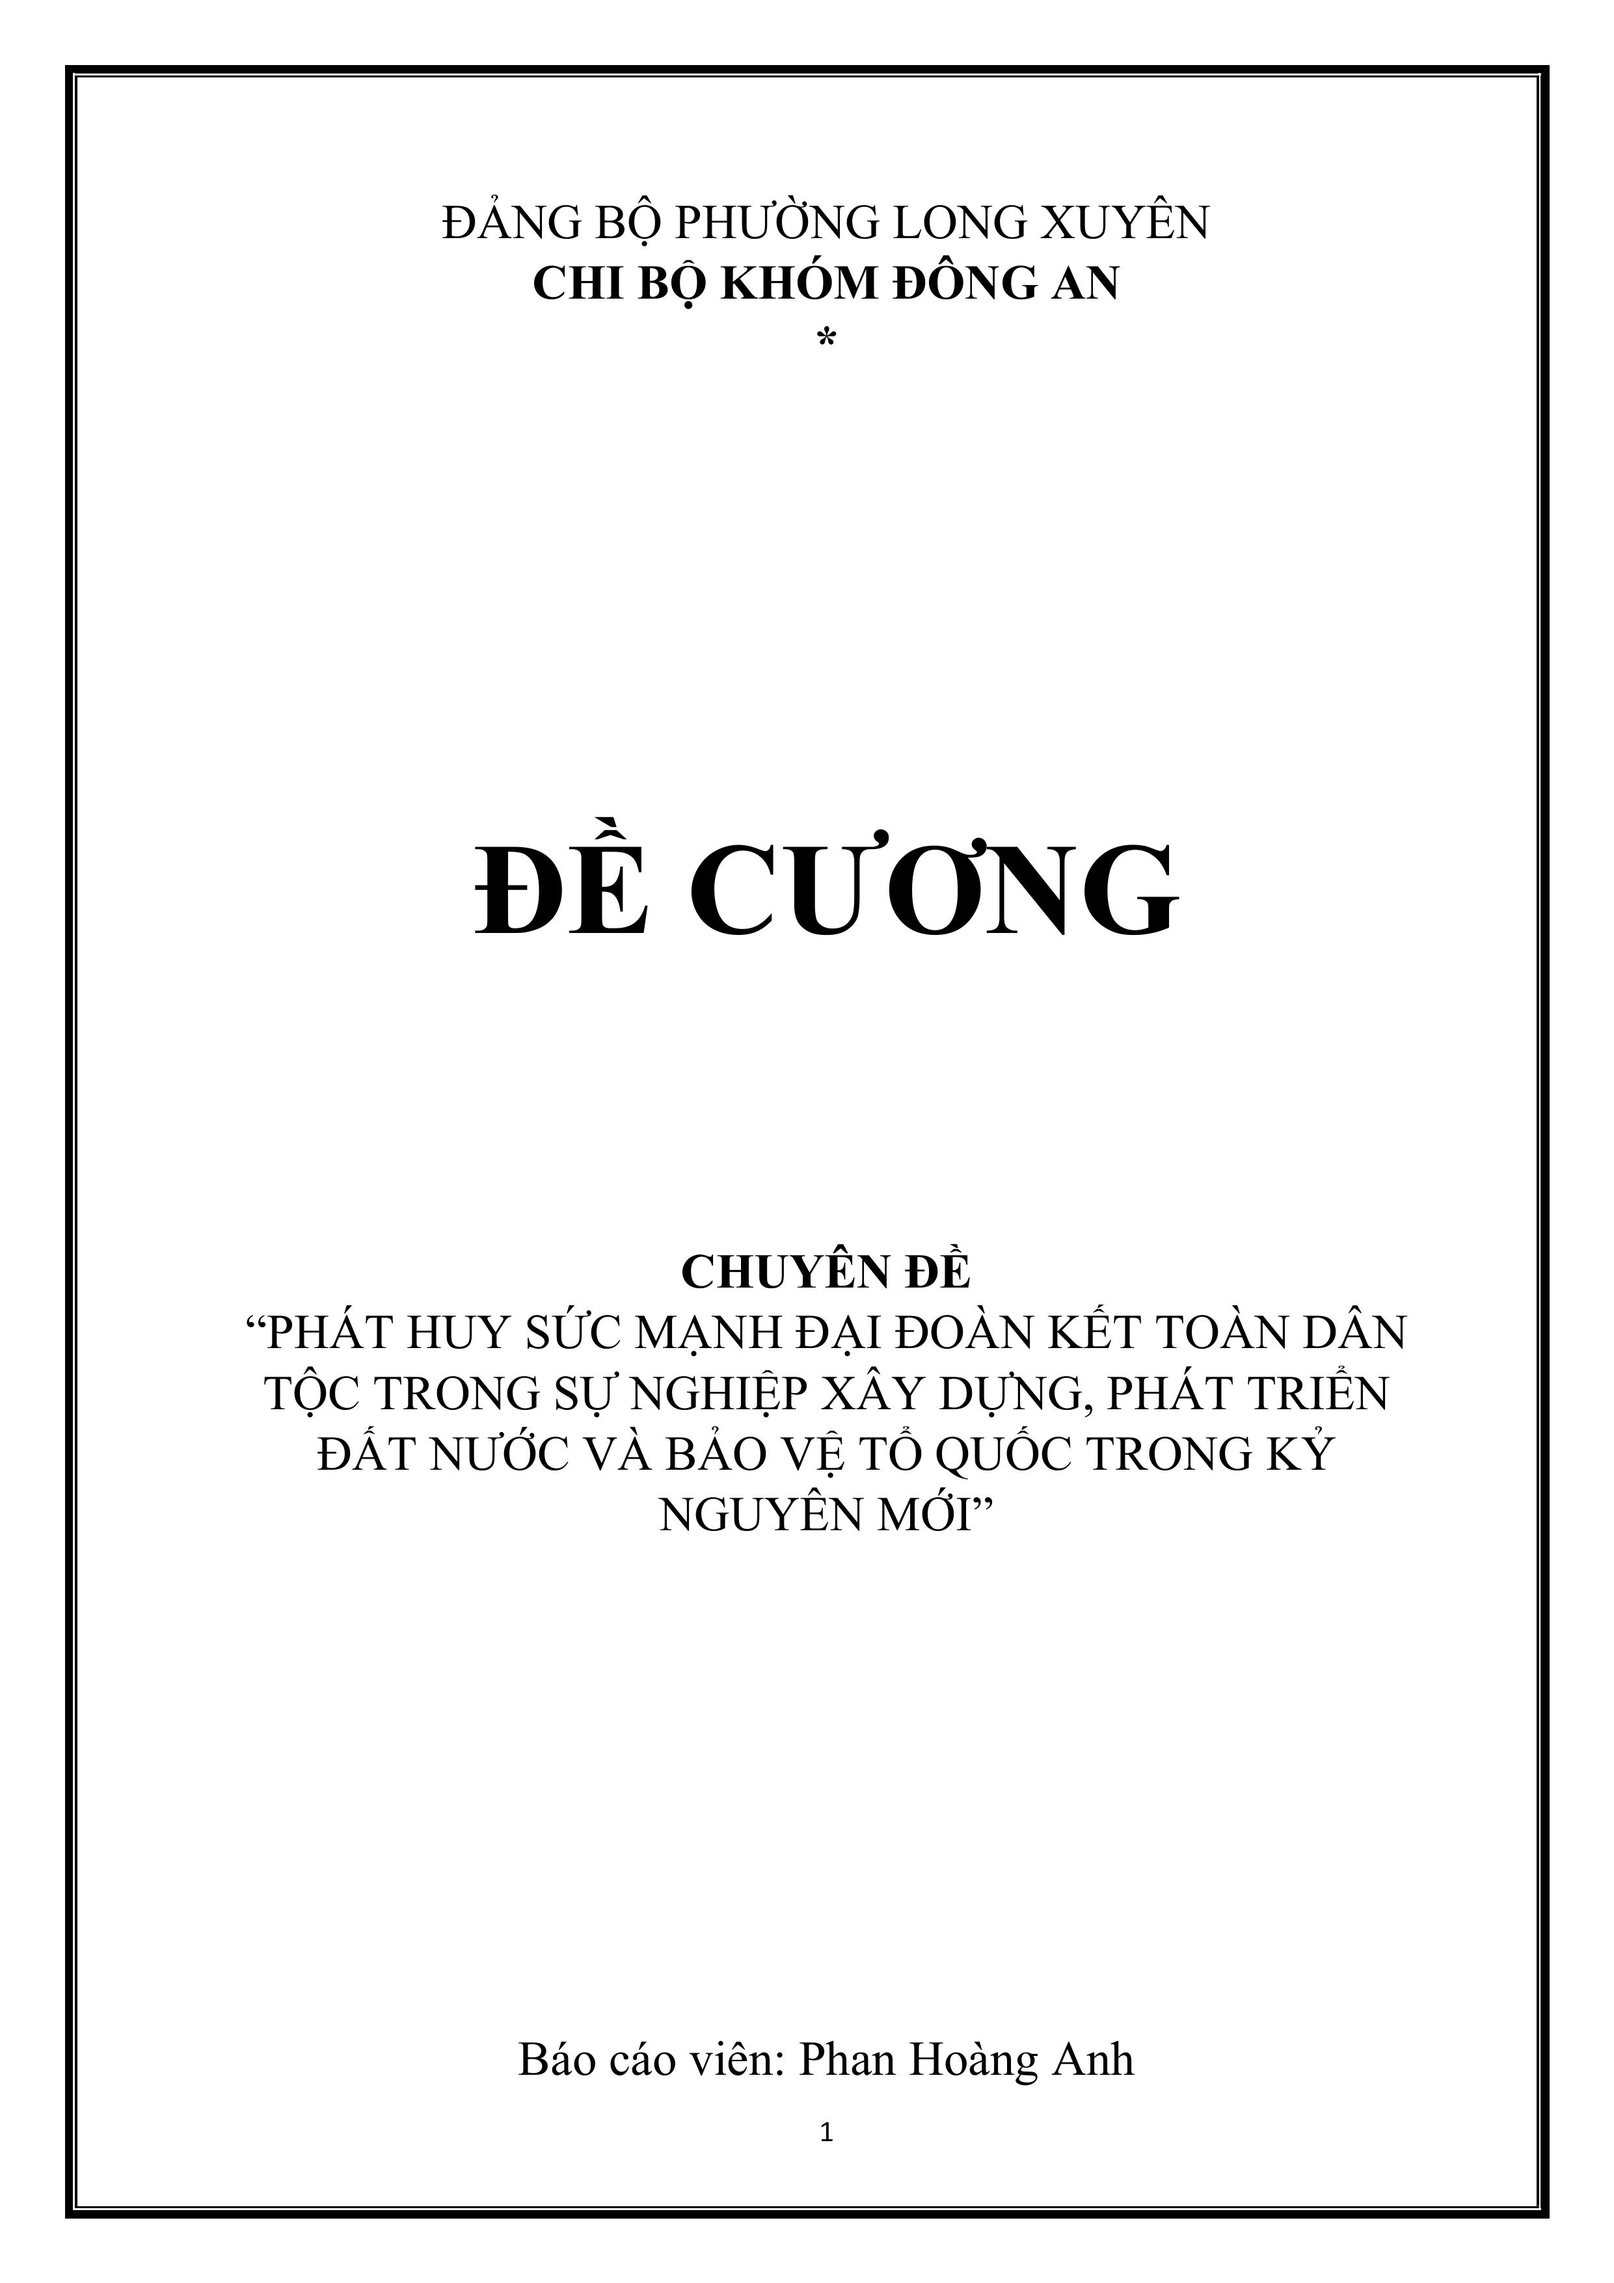
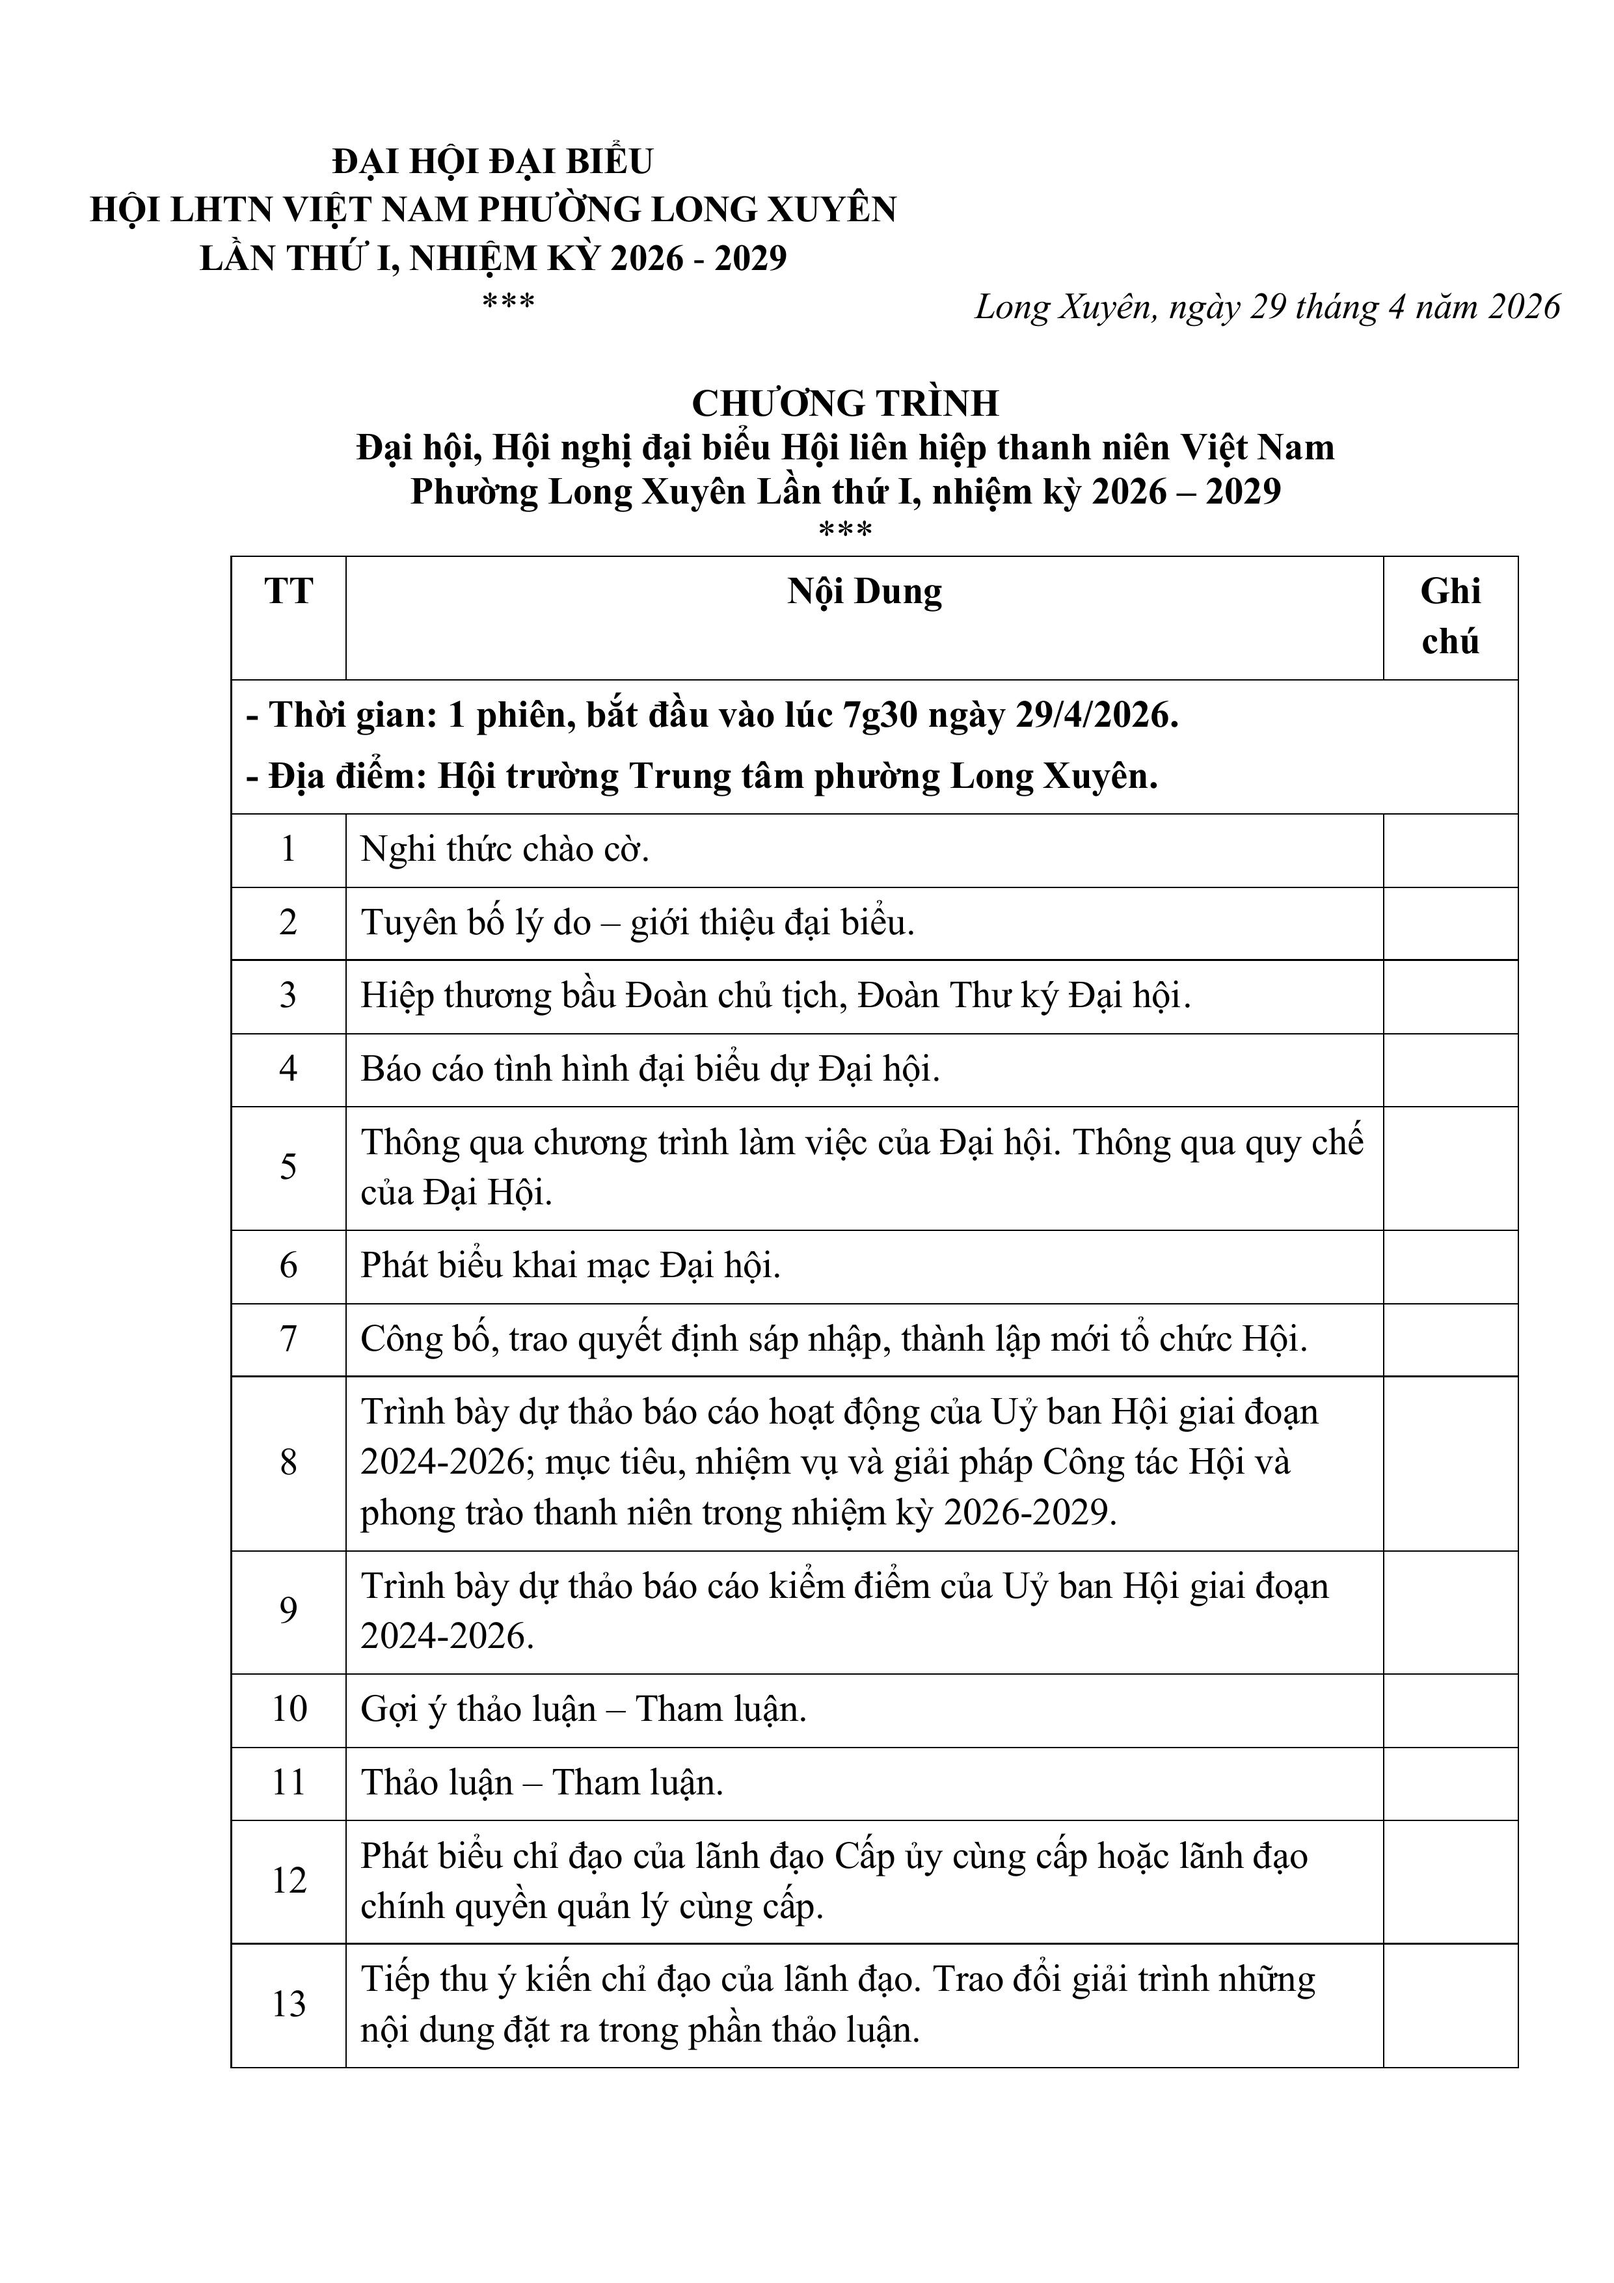
cap nhat
cap nhat van kien

diff --git a/index.html b/index.html
@@ -46,7 +46,7 @@
                 </h1>
                 <h2 class="text-l font-semibold mb-3">PHƯỜNG LONG XUYÊN</h2>
                 <div class="inline-block bg-blue-900/60 px-4 py-2 rounded-full border border-blue-600/50">
-                    <p class="text-xs font-medium text-yellow-300 uppercase tracking-widest">Lần thứ I, Nhiệm kỳ 2024 - 2029</p>
+                    <p class="text-xs font-medium text-yellow-300 uppercase tracking-widest">Lần thứ I, Nhiệm kỳ 2026 - 2031</p>
                 </div>
             </div>
         </section>
@@ -66,6 +66,9 @@
         <div class="bg-blue-50 text-blue-800 text-xs text-center py-2 px-4 shadow-sm">
             <i class="fas fa-search-plus mr-1"></i> Dùng 2 ngón tay để phóng to văn bản
         </div>
+
+        <div id="reader-header" class="bg-white px-4 py-4 mb-3 shadow-sm border-b border-gray-200">
+            </div>
 
         <div id="reader-content" class="flex flex-col">
             </div>
@@ -98,7 +101,16 @@
                 icon: "fa-calendar-alt",
                 color: "text-red-500",
                 bg: "bg-red-100",
-                images: ["assets/ct1.jpg", "assets/ct2.jpg", "assets/ct3.jpg", "assets/ct4.jpg", "assets/ct5.jpg", "assets/ct6.jpg", "assets/ct7.jpg", "assets/ct8.jpg"]
+                images: ["assets/ct1.jpg", "assets/ct2.jpg"]
+            },
+            {
+                id: "quy-che",
+                title: "Quy chế Đại hội",
+                description: "Nội dung quy chế Đại hội",
+                icon: "fa-gavel",
+                color: "text-yellow-500",
+                bg: "bg-yellow-100",
+                images: ["assets/qc1.jpg", "assets/qc2.jpg"]
             },
             {
                 id: "bao-cao-chinh-tri",
@@ -107,7 +119,7 @@
                 icon: "fa-book",
                 color: "text-blue-600",
                 bg: "bg-blue-100",
-                images: ["assets/bao-cao-1.jpg", "assets/bao-cao-2.jpg"]
+                images: ["assets/bc1.jpg", "assets/bc2.jpg", "assets/bc3.jpg" , "assets/bc4.jpg", "assets/bc5.jpg", "assets/bc6.jpg", "assets/bc7.jpg", "assets/bc8.jpg", "assets/bc9.jpg", "assets/bc10.jpg", "assets/bc11.jpg", "assets/bc12.jpg", "assets/bc13.jpg", "assets/bc14.jpg", "assets/bc15.jpg", "assets/bc16.jpg"]
             },
             {
                 id: "kiem-diem",
@@ -116,16 +128,52 @@
                 icon: "fa-clipboard-list",
                 color: "text-green-600",
                 bg: "bg-green-100",
-                images: ["assets/kiem-diem-1.jpg"]
+                images: ["assets/bckd1.jpg", "assets/bckd2.jpg", "assets/bckd3.jpg"]
             },
             {
                 id: "nhan-su",
-                title: "Đề án nhân sự",
+                title: "Đề án nhân sự Uỷ ban Hội",
                 description: "Danh sách và cấu trúc nhân sự khóa mới",
                 icon: "fa-users",
                 color: "text-purple-600",
                 bg: "bg-purple-100",
-                images: ["assets/nhan-su-1.jpg"]
+                images: ["assets/da1.jpg", "assets/da2.jpg", "assets/da3.jpg"]
+            },
+            {
+                id: "tham-luan-1",
+                title: "Tham luận 01",
+                description: "Công tác tổ chức khám bệnh và cấp phát thuốc miễn phí cho người dân tại Trung tâm Y tế Long Xuyên",
+                icon: "fa-stethoscope",
+                color: "text-yellow-500",
+                bg: "bg-yellow-100",
+                images: ["assets/ttyt1.jpg", "assets/ttyt2.jpg"]
+            },
+            {
+                id: "tham-luan-2",
+                title: "Tham luận 02",
+                description: "Vai trò của Chi hội địa bàn dân cư trong việc phát hiện, bồi dưỡng và giới thiệu hội viên ưu tú cho Đảng xem xét kết nạp",
+                icon: "fa-users-cog",
+                color: "text-green-500",
+                bg: "bg-green-100",
+                images: ["assets/ptd1.jpg", "assets/ptd2.jpg"]
+            },
+            {
+                id: "tham-luan-3",
+                title: "Tham luận 03",
+                description: "Giải pháp mở rộng mặt trận đoàn kết, tập hợp thanh niên tham gia vào tổ chức Hội tại địa phương",
+                icon: "fa-handshake",
+                color: "text-blue-500",
+                bg: "bg-blue-100",
+                images: ["assets/mtdk1.jpg", "assets/mtdk2.jpg"]
+            },
+            {
+                id: "du-thao-nghi-quyet",
+                title: "Dự thảo Nghị quyết",
+                description: "Nội dung dự thảo nghị quyết Đại hội",
+                icon: "fa-file-alt",
+                color: "text-yellow-600",
+                bg: "bg-yellow-100",
+                images: ["assets/nq1.jpg", "assets/nq2.jpg"]
             }
         ];
 
@@ -135,6 +183,7 @@
         const documentList = document.getElementById('document-list');
         const readerContent = document.getElementById('reader-content');
         const navContent = document.getElementById('nav-content');
+        const readerHeader = document.getElementById('reader-header');
         
         // Cập nhật số lượng
         document.getElementById('doc-count').innerText = `${documentsData.length} mục`;
@@ -181,6 +230,18 @@
                 </button>
                 <div class="font-bold text-sm truncate flex-grow text-center pr-6">
                     ${doc.title}
+                </div>
+            `;
+
+            readerHeader.innerHTML = `
+                <div class="flex items-start space-x-3">
+                    <div class="${doc.bg} ${doc.color} w-10 h-10 rounded-lg flex items-center justify-center flex-shrink-0">
+                        <i class="fas ${doc.icon} text-lg"></i>
+                    </div>
+                    <div>
+                        <h2 class="text-lg font-bold text-gray-800 leading-tight">${doc.title}</h2>
+                        <p class="text-sm text-gray-600 mt-1 leading-snug">${doc.description}</p>
+                    </div>
                 </div>
             `;
 
